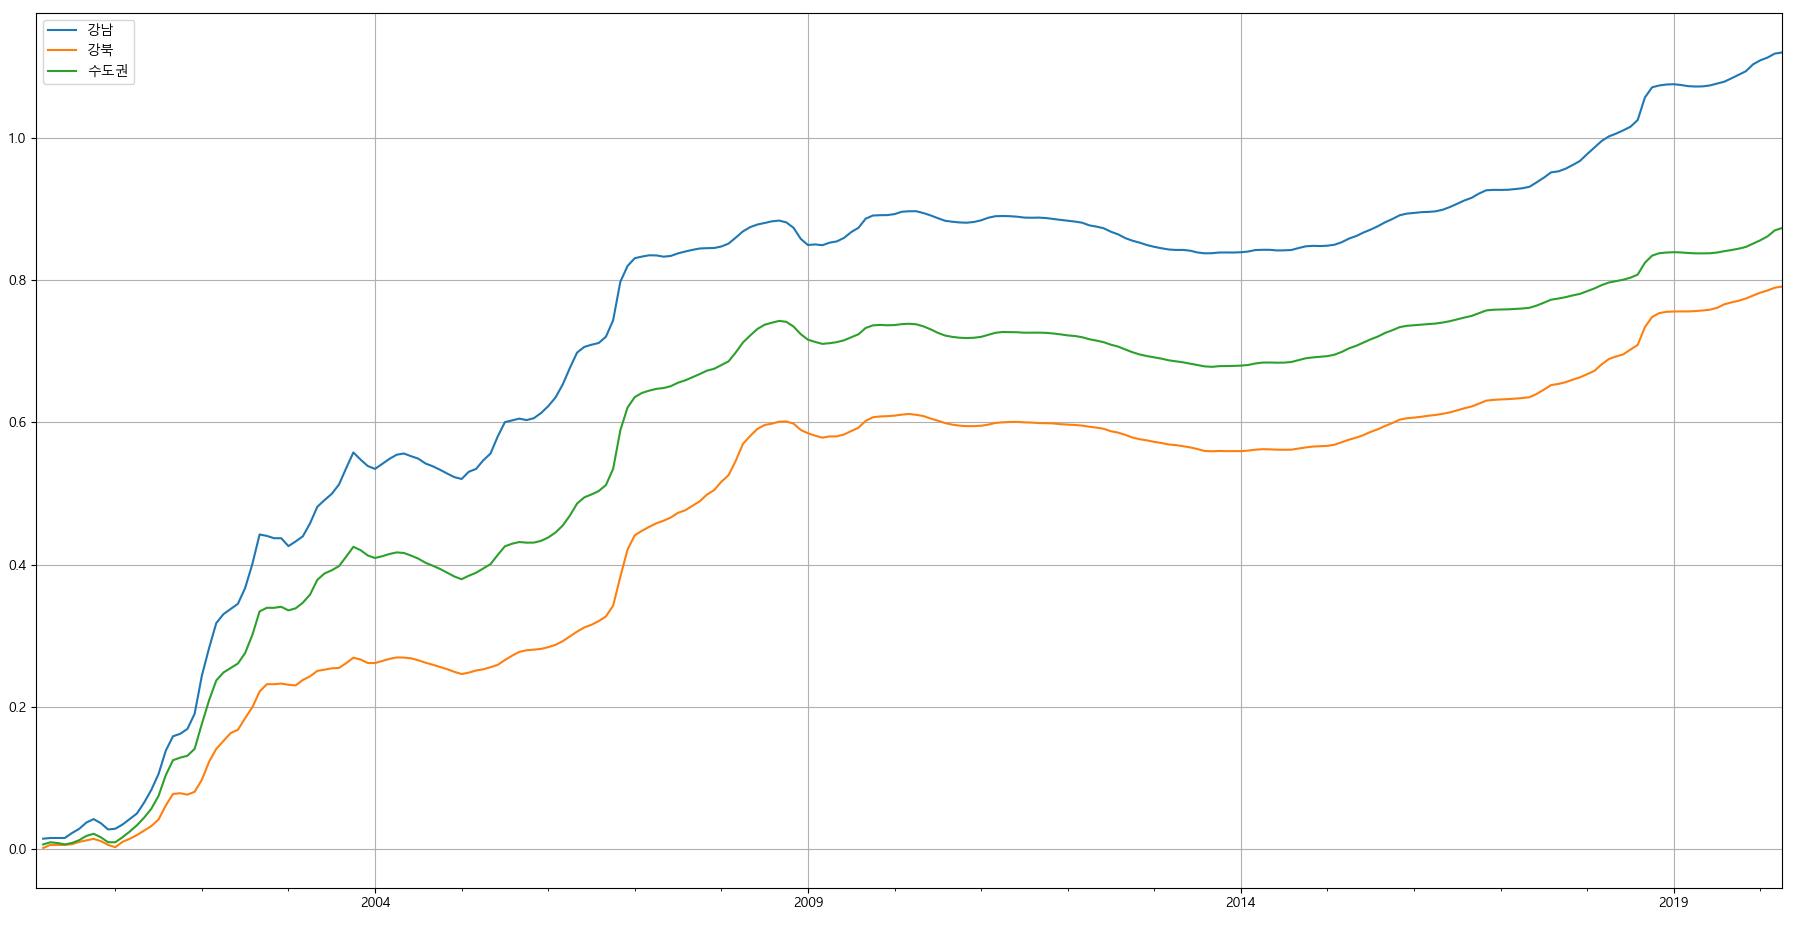
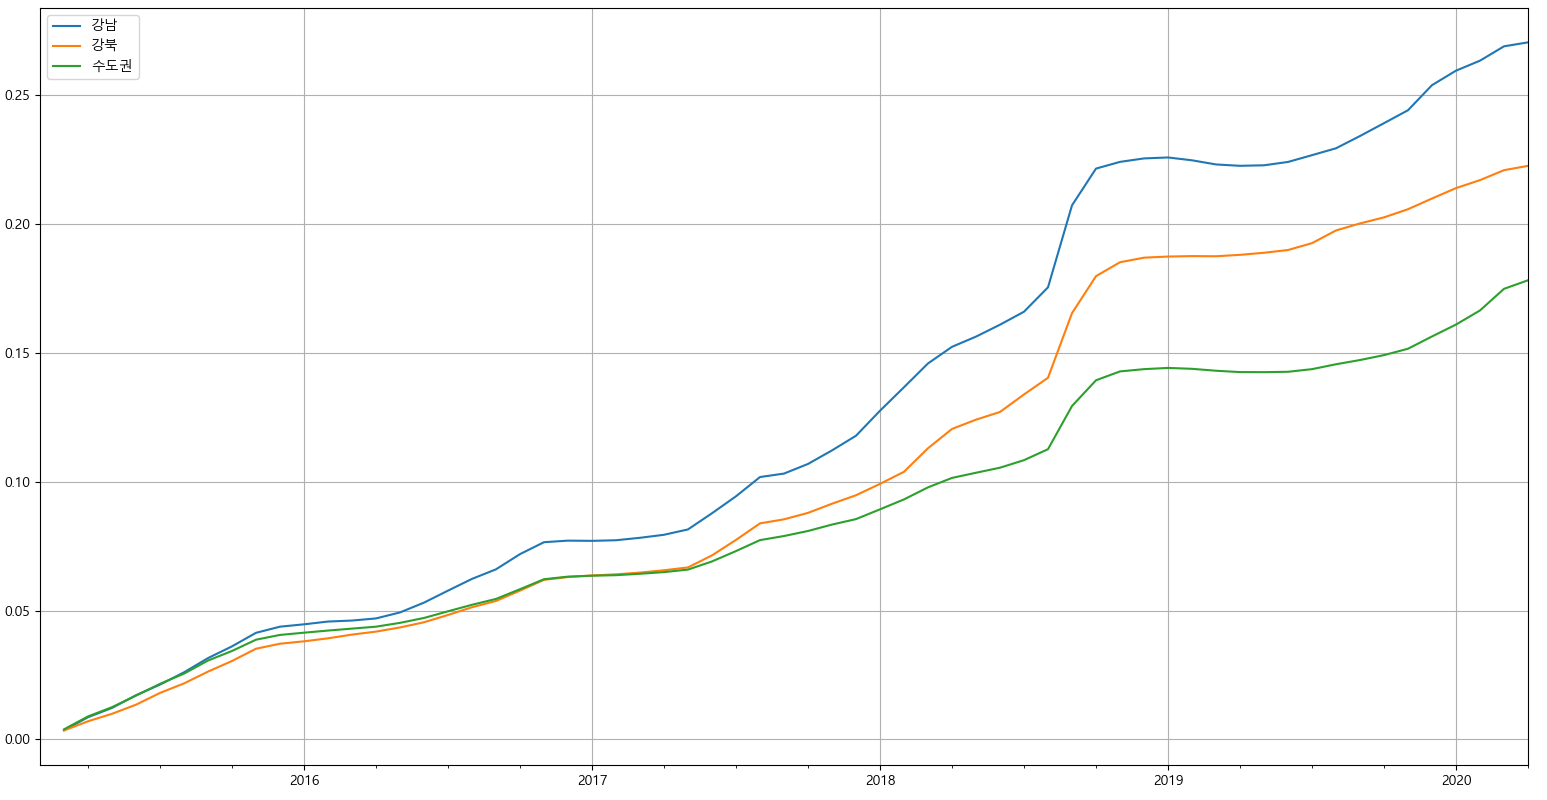
Update post 'housing-price-indices' with recent data

diff --git a/_posts/2020-05-01-housing-purchase-price-composite-indices.md b/_posts/2020-05-01-housing-purchase-price-composite-indices.md
@@ -127,12 +127,12 @@ df['강북'] = data['서울']['강북']
 df['수도권'] = data['수도권']['수도권']
 ```
 
-2000년 1월 1일 이후의 등락률을 표본 데이터로 삼았다.
+2015년 1월 1일 이후의 등락률을 표본 데이터로 삼았다.
 
 [pct_change 함수](https://pandas.pydata.org/pandas-docs/stable/reference/api/pandas.DataFrame.pct_change.html) 는 현재와 이전 데이터와의 percent 차이를 계산해주고, [cumsum 함수](https://docs.scipy.org/doc/numpy/reference/generated/numpy.cumsum.html) 는 이들 간의 누적합을 계산해준다. 등락률의 누적합을 계산하여 각 지역별 차이를 확인하기 위한 목적이다.
 
 ``` python
-df = df[df.index > datetime.datetime(2000, 1, 1)]
+df = df[df.index > datetime.datetime(2015, 1, 1)]
 df = df.pct_change().cumsum()
 ```
 
@@ -141,194 +141,193 @@ df = df.pct_change().cumsum()
 ``` python
 df.plot()
 plt.grid()
-plt.tight_layout()
 plt.show()
 ```
 
 ![housing-price-indices](/assets/img/posts/20200501/housing-price-indices.png)
 
-확인 결과, 서울 강남 > 수도권 > 서울 강북 순으로 상승폭이 컸음을 알 수 있다.
+확인 결과, 서울 강남 > 서울 강북 > 수도권 순으로 상승폭이 컸음을 알 수 있다.
 
-수도권의 상승이 서울의 강북보다 큰 것인가? 이러한 의문이 들어, 3개 도시 뿐 아니라 모든 도시의 등락률도 확인해 보고자 한다.
+추가적으로 3개 도시 뿐 아니라 모든 도시의 등락률도 확인해 보고자 한다.
 
-2000년 1월 1일 이후의 등락률의 누적합을 구하고, 마지막 날짜의 데이터만 취합하여 정리된 데이터를 내림차순으로 정렬하였다.
+2020년 4월 1일과 2015년 1월 1일 사이의 등락률을 계산하고, 데이터를 내림차순으로 정렬하였다.
 
-아래의 데이터를 확인해보면 서울 강남에 이어 경기도 광명, 안양, 성남 등의 수도권 도시들의 상승이 컸음을 알 수 있다.
+아래의 분석 결과를 확인해보면 `서울 강남구`보다도 `서울 영등포구`, `경기 분당구`와 같은 도시들의 상승률이 컸음을 알 수 있다.
 
-```
-data = data[data.index > datetime.datetime(2000, 1, 1)]
-data = data.pct_change().cumsum()
-data = data[data.index == datetime.datetime(2020, 4, 1)]
+``` python
+base_date = datetime.datetime(2015, 1, 1)
+target_date = datetime.datetime(2020, 4, 1)
+data = data.loc[[base_date, target_date]]
 data = data.T
+data['result'] = (data[target_date] - data[base_date]) / data[base_date] * 100.0
 data = data.dropna()
-data = data['2020-04-01'].sort_values(ascending=False)
+data = data['result'].sort_values(ascending=False)
 for index in data.index:
-    print(index, '{:.2f}'.format(data[index]))
-	
-('서울', '강남') 1.12
-('경기', '광명') 1.11
-('경기', '안양') 1.04
-('경기', '성남') 1.01
-('서울', '서울') 0.97
-('경기', '안산') 0.94
-('경기', '군포') 0.93
-('경기', '부천') 0.89
-('경기', '수원') 0.88
-('수도권', '수도권') 0.87
-('서울', '강북') 0.79
-('전국', '전국') 0.73
-('대전', '대전') 0.72
-('경기', '분당구') 0.72
-('인천', '인천') 0.71
-('서울', '용산구') 0.71
-('서울', '영등포구') 0.69
-('대구', '대구') 0.68
-('경기', '고양') 0.68
-('6개광역시', '6개광역시') 0.68
-('서울', '양천구') 0.68
-('서울', '강남구') 0.66
-('경기', '동안구') 0.66
-('울산', '울산') 0.66
-('광주', '광산구') 0.65
-('서울', '노원구') 0.65
-('서울', '송파구') 0.63
-('경기', '과천') 0.63
-('서울', '서초구') 0.63
-('부산', '부산') 0.60
-('광주', '서구') 0.60
-('서울', '동작구') 0.60
-('충북', '청주') 0.58
-('대구', '수성구') 0.58
-('충남', '천안') 0.58
-('경기', '만안구') 0.57
-('대구', '달서구') 0.57
-('경기', '구리') 0.57
-('서울', '성북구') 0.56
-('경기', '영통구') 0.56
-('서울', '구로구') 0.55
-('울산', '남구') 0.55
-('광주', '광주') 0.54
-('서울', '성동구') 0.53
-('서울', '강동구') 0.53
-('서울', '마포구') 0.52
-('대구', '북구') 0.52
-('서울', '은평구') 0.52
-('서울', '중구') 0.51
-('울산', '북구') 0.50
-('서울', '서대문구') 0.50
-('부산', '해운대구') 0.49
-('서울', '동대문구') 0.49
-('부산', '사상구') 0.49
-('대구', '동구') 0.48
-('서울', '광진구') 0.48
-('경기', '단원구') 0.47
-('대구', '달성군') 0.47
-('대전', '서구') 0.47
-('울산', '중구') 0.47
-('광주', '북구') 0.46
-('울산', '울주군') 0.46
-('경기', '팔달구') 0.45
-('충북', '흥덕구') 0.45
-('울산', '5개광역시\n(인천外)') 0.45
-('광주', '남구') 0.45
-('서울', '강북구') 0.45
-('부산', '동래구') 0.44
-('서울', '도봉구') 0.44
-('경기', '중원구') 0.44
-('서울', '금천구') 0.44
-('경기', '시흥') 0.43
-('서울', '강서구') 0.43
-('서울', '종로구') 0.43
-('대전', '중구') 0.43
-('서울', '중랑구') 0.43
-('서울', '관악구') 0.42
-('인천', '서구') 0.42
-('경기', '경기') 0.42
-('부산', '북구') 0.41
-('강원', '춘천') 0.41
-('경기', '권선구') 0.41
-('인천', '계양구') 0.40
-('전북', '전주') 0.40
-('전북', '완산구') 0.40
-('강원', '원주') 0.40
-('경기', '장안구') 0.40
-('경기', '상록구') 0.39
-('부산', '남구') 0.39
-('경기', '덕양구') 0.39
-('충북', '충주') 0.39
-('전북', '덕진구') 0.38
-('부산', '사하구') 0.38
-('경기', '일산서구') 0.37
-('대전', '대덕구') 0.37
-('부산', '수영구') 0.37
-('충북', '상당구') 0.37
-('부산', '부산진구') 0.37
-('전북', '전북') 0.36
-('충북', '충북') 0.36
-('경기', '일산동구') 0.35
-('대전', '유성구') 0.35
-('경기', '남양주') 0.34
-('경북', '경산') 0.34
-('대전', '동구') 0.34
-('경기', '수정구') 0.34
-('경기', '이천') 0.33
-('경기', '용인') 0.33
-('경남', '김해') 0.32
-('전북', '익산') 0.32
-('경남', '창원') 0.32
-('울산', '동구') 0.32
-('경남', '경남') 0.31
-('인천', '미추홀구') 0.31
-('대구', '중구') 0.31
-('인천', '부평구') 0.31
-('강원', '강원') 0.31
-('부산', '기장군') 0.30
-('인천', '연수구') 0.30
-('전북', '군산') 0.29
-('기타지방', '기타지방') 0.29
-('경기', '의정부') 0.28
-('광주', '동구') 0.27
-('경남', '진해구') 0.26
-('부산', '연제구') 0.26
-('대구', '서구') 0.25
-('인천', '동구') 0.25
-('부산', '금정구') 0.24
-('충남', '아산') 0.24
-('경기', '수지구') 0.24
-('경북', '경북') 0.23
-('전남', '여수') 0.23
-('인천', '남동구') 0.22
-('경기', '김포') 0.21
-('경기', '기흥구') 0.21
-('전남', '전남') 0.20
-('경기', '처인구') 0.20
-('경북', '북구') 0.20
-('경북', '구미') 0.20
-('대구', '남구') 0.18
-('충남', '충남') 0.17
-('경북', '포항') 0.17
-('충남', '서북구') 0.17
-('경남', '진주') 0.17
-('부산', '영도구') 0.16
-('부산', '서구') 0.15
-('충남', '동남구') 0.15
-('경북', '남구') 0.15
-('경기', '평택') 0.15
-('제주도', '제주/\n서귀포') 0.14
-('부산', '중구') 0.12
-('인천', '중구') 0.11
-('경남', '마산합포구') 0.11
-('충남', '논산') 0.11
-('전남', '목포') 0.11
-('세종', '세종') 0.10
-('경기', '파주') 0.10
-('경남', '마산회원구') 0.06
-('경기', '화성') 0.05
-('부산', '동구') 0.02
-('전남', '순천') 0.00
-('경남', '의창구') -0.01
-('충남', '공주') -0.07
-('충북', '청원구') -0.08
-('충북', '서원구') -0.11
-('경남', '성산구') -0.14
+    print(index, '{:.2f}%'.format(data[index]))
+```
+``` bash
+('서울', '영등포구') 43.27%
+('경기', '분당구') 43.01%
+('서울', '강남구') 41.52%
+('경기', '광명') 38.57%
+('서울', '양천구') 34.08%
+('서울', '서초구') 33.70%
+('서울', '송파구') 33.11%
+('서울', '동대문구') 32.20%
+('서울', '강남') 31.09%
+('서울', '노원구') 31.05%
+('서울', '마포구') 30.82%
+('경기', '성남') 30.36%
+('서울', '성동구') 29.93%
+('경기', '동안구') 28.39%
+('서울', '강동구') 28.14%
+('서울', '서울') 28.07%
+('서울', '서대문구') 27.96%
+('서울', '구로구') 27.96%
+('서울', '용산구') 27.96%
+('서울', '동작구') 27.45%
+('서울', '성북구') 27.11%
+('경기', '안양') 26.99%
+('경기', '과천') 26.88%
+('서울', '강서구') 25.77%
+('경기', '수지구') 25.66%
+('서울', '중구') 25.11%
+('서울', '강북') 25.04%
+('경기', '만안구') 24.69%
+('경기', '영통구') 24.62%
+('경기', '군포') 23.26%
+('서울', '도봉구') 23.11%
+('경기', '구리') 22.67%
+('대구', '수성구') 22.14%
+('서울', '금천구') 21.42%
+('서울', '중랑구') 19.83%
+('서울', '광진구') 19.76%
+('수도권', '수도권') 19.70%
+('광주', '광산구') 19.66%
+('광주', '서구') 19.45%
+('대전', '서구') 19.35%
+('서울', '관악구') 18.28%
+('경기', '덕양구') 18.17%
+('경기', '부천') 17.50%
+('경기', '수원') 17.37%
+('서울', '종로구') 16.70%
+('경기', '장안구') 16.54%
+('서울', '은평구') 16.34%
+('경기', '중원구') 16.15%
+('대구', '동구') 15.92%
+('대구', '중구') 15.53%
+('광주', '광주') 15.35%
+('경기', '용인') 15.31%
+('대전', '유성구') 15.12%
+('인천', '부평구') 15.12%
+('경기', '기흥구') 15.08%
+('부산', '해운대구') 15.07%
+('대구', '서구') 14.98%
+('서울', '강북구') 14.96%
+('경기', '경기') 14.87%
+('부산', '남구') 14.74%
+('대전', '대전') 14.20%
+('대전', '중구') 14.10%
+('경기', '팔달구') 13.96%
+('광주', '남구') 13.81%
+('부산', '수영구') 13.47%
+('대구', '대구') 13.14%
+('인천', '연수구') 13.08%
+('광주', '동구') 13.06%
+('경기', '고양') 13.00%
+('대구', '달서구') 12.82%
+('경기', '수정구') 12.79%
+('부산', '동래구') 12.76%
+('경기', '권선구') 12.69%
+('인천', '계양구') 12.57%
+('전국', '전국') 12.34%
+('경기', '김포') 12.30%
+('제주도', '제주/\n서귀포') 11.74%
+('인천', '인천') 11.60%
+('대전', '동구') 11.57%
+('인천', '서구') 11.37%
+('인천', '미추홀구') 11.22%
+('6개광역시', '6개광역시') 10.63%
+('울산', '5개광역시\n(인천外)') 10.33%
+('경기', '단원구') 10.21%
+('광주', '북구') 10.15%
+('경기', '남양주') 10.05%
+('인천', '남동구') 9.91%
+('대구', '남구') 9.88%
+('경기', '일산동구') 9.60%
+('경기', '의정부') 9.42%
+('전남', '여수') 9.00%
+('경기', '일산서구') 8.42%
+('전남', '순천') 8.30%
+('부산', '부산') 8.25%
+('부산', '연제구') 8.21%
+('세종', '세종') 7.56%
+('경기', '안산') 7.45%
+('대구', '북구') 7.42%
+('전북', '익산') 6.89%
+('부산', '서구') 6.79%
+('경기', '시흥') 6.66%
+('전남', '전남') 6.63%
+('부산', '금정구') 6.57%
+('경기', '파주') 6.22%
+('경기', '화성') 6.08%
+('부산', '부산진구') 6.04%
+('부산', '사상구') 5.12%
+('인천', '동구') 5.00%
+('부산', '동구') 4.83%
+('경기', '상록구') 4.82%
+('부산', '사하구') 4.51%
+('인천', '중구') 3.63%
+('부산', '기장군') 3.15%
+('울산', '남구') 2.97%
+('대전', '대덕구') 2.87%
+('부산', '북구') 2.84%
+('부산', '중구') 2.66%
+('전북', '덕진구') 2.61%
+('부산', '영도구') 2.29%
+('강원', '춘천') 1.79%
+('강원', '강원') 1.78%
+('대구', '달성군') 1.78%
+('전남', '목포') 1.77%
+('강원', '원주') 1.74%
+('경남', '진주') 1.44%
+('경기', '이천') 1.25%
+('전북', '전주') 1.22%
+('전북', '전북') 0.75%
+('전북', '완산구') 0.11%
+('충남', '논산') -0.75%
+('충남', '공주') -1.03%
+('경기', '처인구') -1.13%
+('울산', '중구') -1.19%
+('경북', '남구') -1.64%
+('울산', '울주군') -1.76%
+('기타지방', '기타지방') -2.77%
+('경북', '경산') -2.85%
+('울산', '울산') -2.98%
+('경북', '포항') -3.97%
+('충북', '충주') -4.32%
+('경남', '마산회원구') -5.21%
+('경기', '평택') -5.70%
+('경북', '북구') -5.81%
+('충남', '충남') -6.07%
+('충남', '아산') -6.16%
+('경남', '마산합포구') -6.32%
+('충남', '동남구') -6.78%
+('전북', '군산') -6.79%
+('울산', '북구') -7.16%
+('경북', '경북') -7.17%
+('충북', '흥덕구') -7.39%
+('충북', '충북') -7.48%
+('경남', '경남') -7.62%
+('충남', '천안') -8.09%
+('충북', '청주') -8.42%
+('경남', '김해') -8.85%
+('충남', '서북구') -9.14%
+('경남', '진해구') -9.44%
+('충북', '상당구') -10.16%
+('경남', '창원') -10.32%
+('경남', '의창구') -11.69%
+('울산', '동구') -13.13%
+('경북', '구미') -14.19%
+('경남', '성산구') -16.93%
 ```
